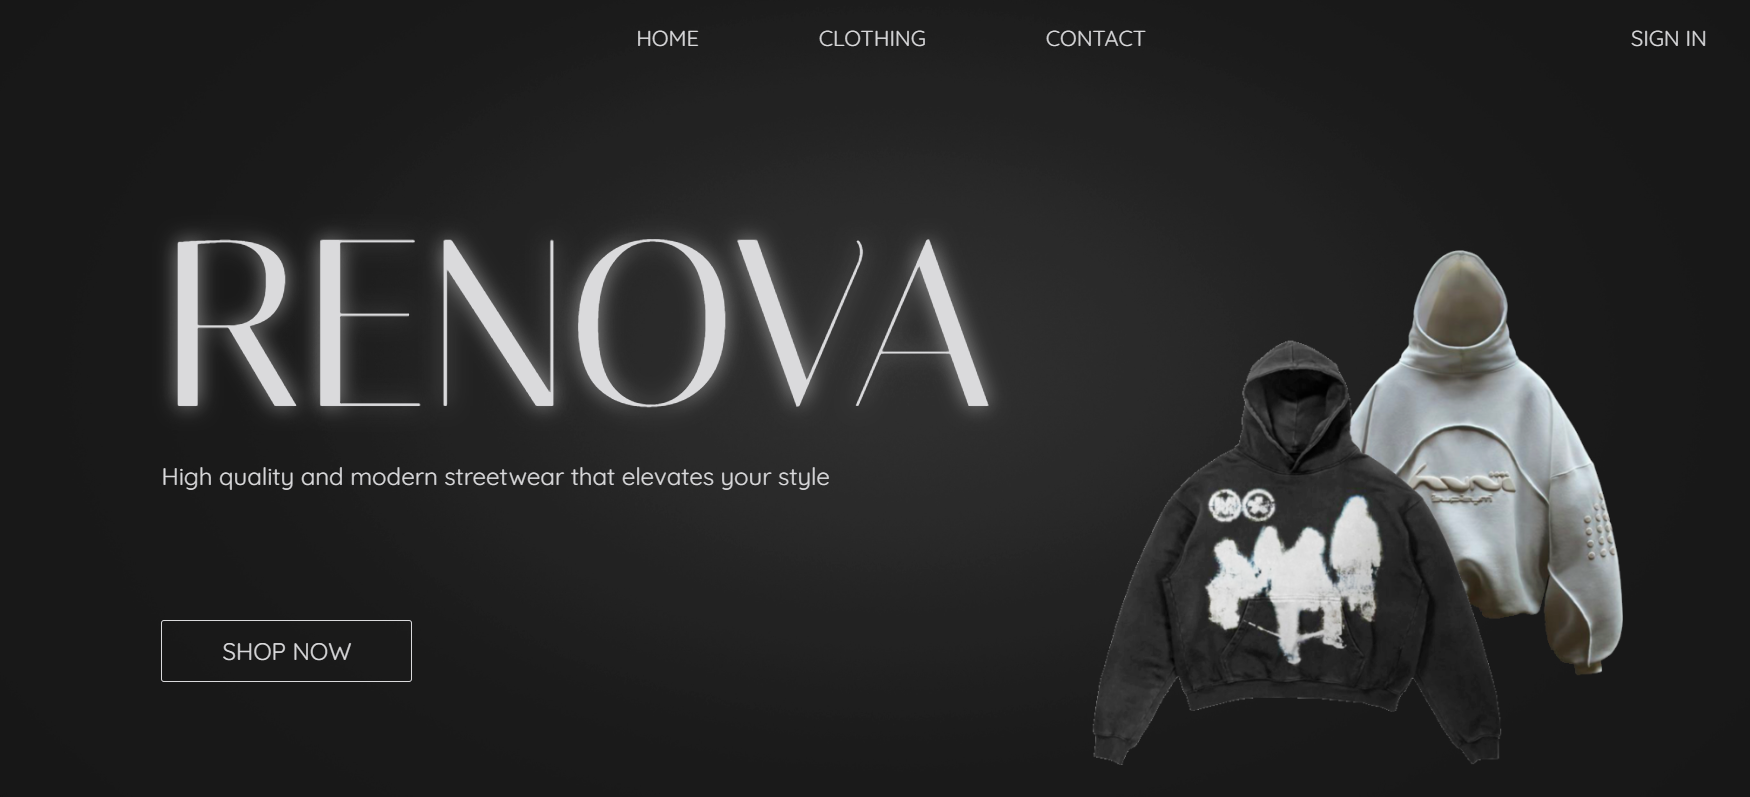
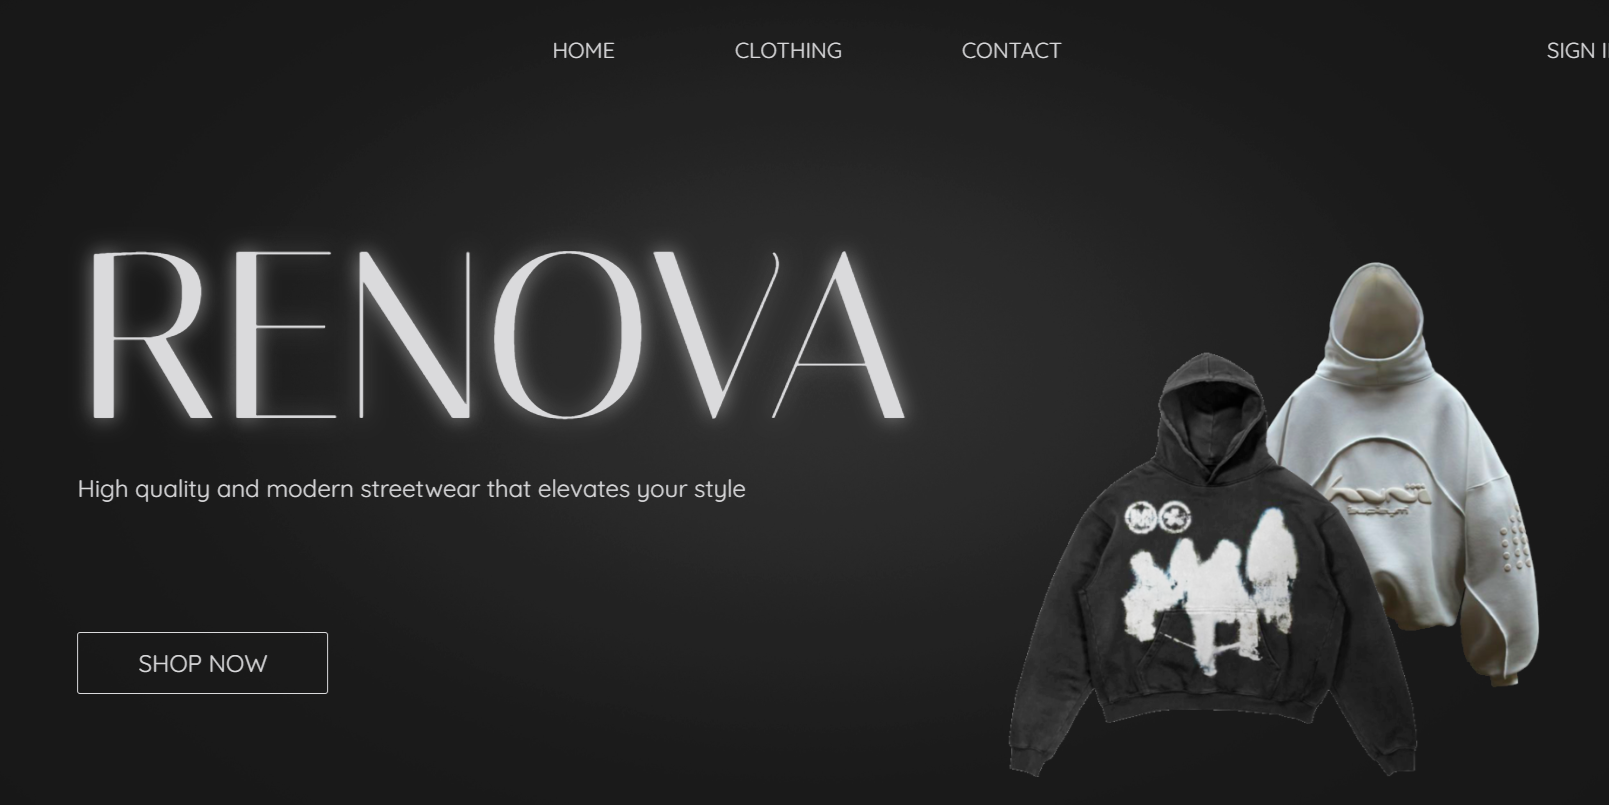
Merge pull request #44 from georgesecen/fix-project-image-cycles
Fix project image cycles

Pull request: Fix project image cycles

diff --git a/src/components/ProjectCard3/ProjectCard3.jsx b/src/components/ProjectCard3/ProjectCard3.jsx
@@ -15,7 +15,7 @@ import "./projectCard3.css"
 const ProjectCard3 = ({ title, description, images, languages, githubLink }) => {
 
     // Create random id for image tag as there will be multiple project cards so we need to make sure
-    // we are animating the correct project card image
+    // we are animating changing the correct project card images
     const id = Math.floor(Math.random() * 9999)
   
     // Keep track of what index we are on in the images array
@@ -30,8 +30,8 @@ const ProjectCard3 = ({ title, description, images, languages, githubLink }) => 
         // Get element which has projects image as background
         const currentImage = document.getElementById(id)
 
-        // Change background image to next image in images array
-        currentImage.style.backgroundImage = `url(${images[i]})`
+        // Change image source to next image in array
+        currentImage.src = images[i]
         index.current++
       }
 
@@ -59,14 +59,11 @@ const ProjectCard3 = ({ title, description, images, languages, githubLink }) => 
       onMouseLeave={toggleCustomCursor}
       >
 
+      {/* Many containers for image in order to keep image centered, give it border radius, and allow it to have max sizes while
+      still maintaining aspect ratio. */}
       <div className='image-container3'>
-
-        {/* Div is what contains actual image which is displayed to the user */}
-        <div id={id} style={{backgroundImage: `url(${images[0]}`}}>
-
-          {/* Image is not actually displayed to the user it is just there to fill up the size of the
-          image so the parent backgroundImage can cover it completely */}
-          <img src={images[0]}/>
+        <div>
+          <img id={id} src={images[0]}/>
         </div>
       </div>
 

diff --git a/src/components/ProjectCard3/projectCard3.css b/src/components/ProjectCard3/projectCard3.css
@@ -37,26 +37,18 @@
     align-items: center;
 }
 
-/* Image cycler div actually contains images displayed to the user via background-image */
+/* Container holds image and is able to put border around image even when image may be
+distorted by max height */
 .image-container3 > div{
-    background-image: url();
-    background-size: cover;
     width: fit-content;
     height: fit-content;
-    border: 1px solid var(--grey100);
     border-radius: 17px;
-
-    /* For image swapping effect, and for image pop out effect */
-    transition: background-image 1s ease-in-out;
+    overflow: hidden;
 }
-
-/* Image is just used to fill up the size so parent can use background-image to actually display
-the image to the user. Hence opacity: 0 */
 .image-container3 > div > img{
     width: 100%;
     max-height: 20em;
     object-fit: contain;
-    opacity: 0;
 }
 
 